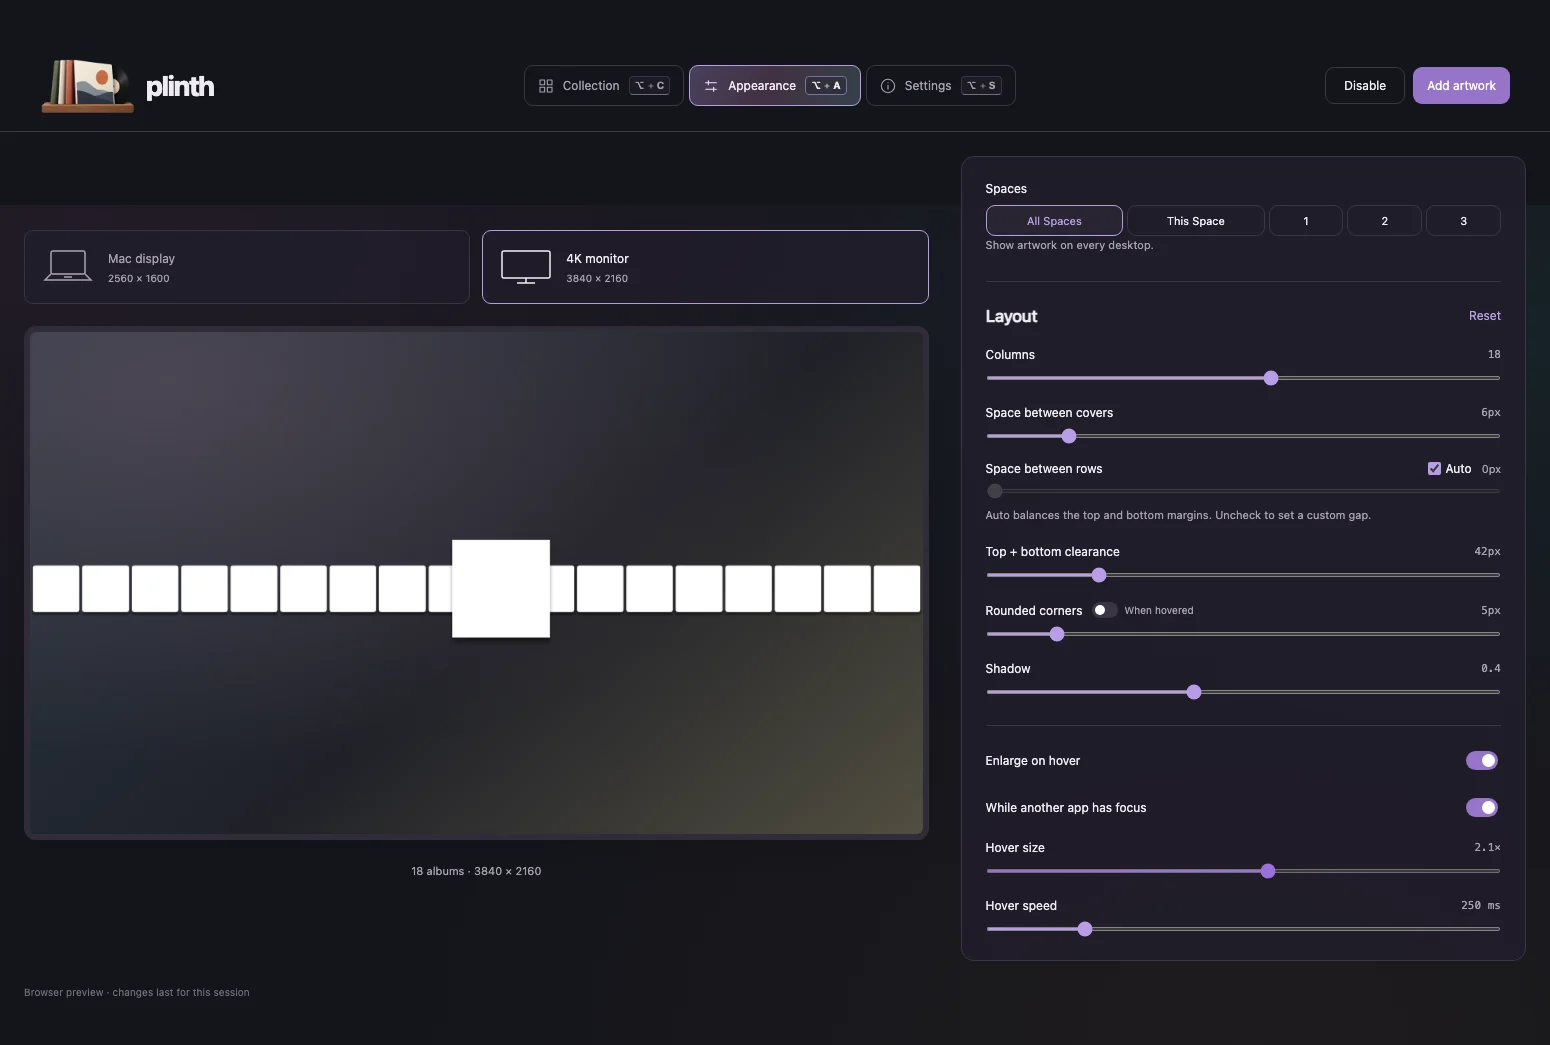
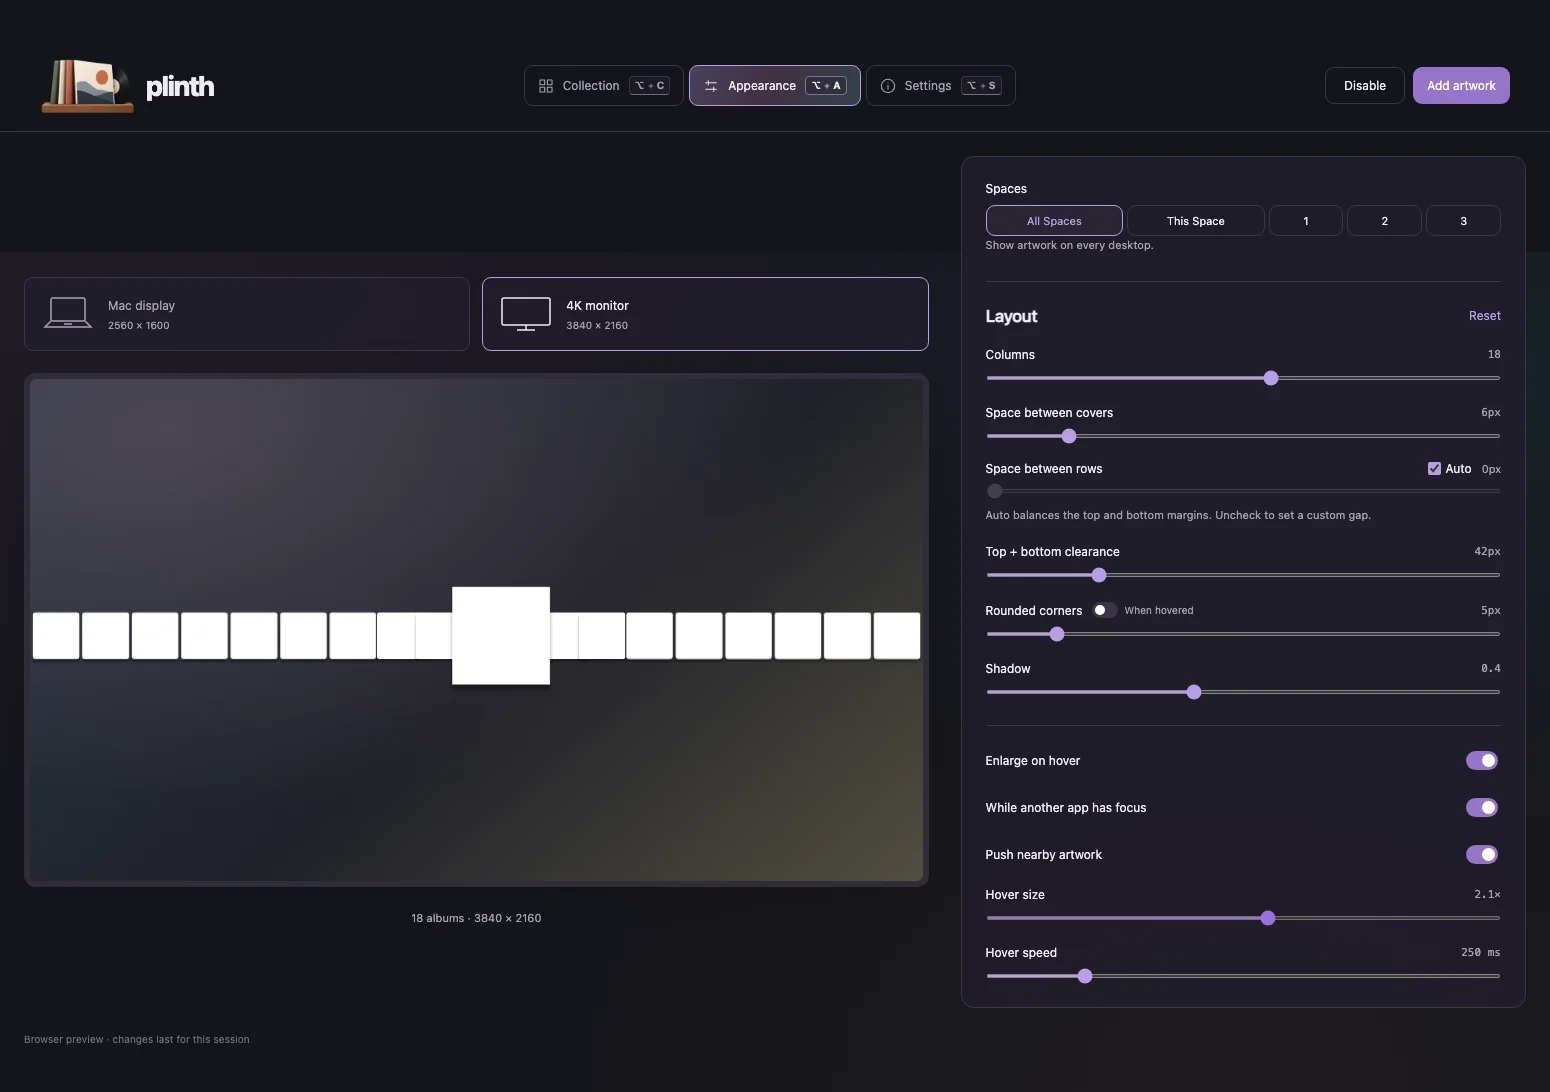
Push nearby artwork away from the hovered cover
Neighbors within 2.6 cover widths of the pointer slide away from the
hovered cover, fading smoothly with distance. Pointer moves only
recompute targets; one rAF loop writes compositor-only translate3d
transforms to the affected cells, promoting them with will-change while
moving and releasing them at rest. Easing follows the hover speed.

Adds a "Push nearby artwork" toggle (default on) under Enlarge on hover,
recorded in history. The desktop-pointer blank-desktop probe now uses
the empty bottom-right corner; the fully enlarged first cover covers
the top-left one.

diff --git a/src/App.svelte b/src/App.svelte
@@ -208,7 +208,7 @@
     {#each [{key:'columns',label:'Columns',min:3,max:30,step:1,unit:''},{key:'gap',label:'Space between covers',min:0,max:40,step:1,unit:'px'},{key:'top',label:layout.rowGap===null?'Top + bottom clearance':'Top clearance',min:0,max:200,step:1,unit:'px'},{key:'radius',label:'Rounded corners',min:0,max:40,step:1,unit:'px'},{key:'shadow',label:'Shadow',min:0,max:1,step:.05,unit:''}] as control}<div class="slider-field"><span><label for={`layout-${control.key}`}>{control.label}</label>{#if control.key==='radius'}<label class="hover-corners-toggle"><input class="switch" type="checkbox" checked={layout.roundedOnHover??false} onchange={(e)=>changeLayout('roundedOnHover',e.currentTarget.checked)}/>When hovered</label>{/if}<output>{layout[control.key as keyof Layout]}{control.unit}</output></span><input id={`layout-${control.key}`} type="range" aria-label={control.label} min={control.min} max={control.max} step={control.step} value={layout[control.key as keyof Layout]} oninput={(e)=>changeLayout(control.key as keyof Layout,Number(e.currentTarget.value))}/></div>{#if control.key==='gap'}
     <div class="row-spacing-field"><div><label for="row-spacing">Space between rows</label><label class="auto-row-spacing"><input type="checkbox" aria-label="Automatic row spacing" checked={layout.rowGap===null} onchange={(e)=>changeLayout('rowGap',e.currentTarget.checked?null:Math.round(rowSpacing.rowGap))}/>Auto</label><output for="row-spacing">{Math.round(rowSpacing.rowGap)}px</output></div><input id="row-spacing" aria-label="Space between rows" aria-describedby="row-spacing-note" disabled={layout.rowGap===null} type="range" min="0" max={Math.max(80,Math.ceil(desktopSpacing({...layout,rowGap:null},screen.width,screen.height,enabled.length,screen.menuBarHeight).rowGap),layout.rowGap??0)} step="1" value={rowSpacing.rowGap} oninput={(e)=>changeLayout('rowGap',Number(e.currentTarget.value))}/><p id="row-spacing-note" class="field-note">Auto balances the top and bottom margins. Uncheck to set a custom gap.</p></div>
     {/if}{/each}
-    <div class="control-divider"></div><label class="toggle-row"><span>Enlarge on hover</span><input class="switch" type="checkbox" bind:checked={settings.hoverEnabled} onchange={persist}/></label><label class="toggle-row"><span>While another app has focus</span><input class="switch" type="checkbox" disabled={!settings.hoverEnabled} bind:checked={settings.hoverInBackground} onchange={persist}/></label><label class="slider-field"><span>Hover size<output>{settings.hoverScale.toFixed(1)}×</output></span><input aria-label="Hover size" onpointerdown={startHoverPreview} type="range" min="1" max="3" step=".1" bind:value={settings.hoverScale} oninput={persist}/></label><label class="slider-field"><span>Hover speed<output>{Math.round(250/(settings.hoverSpeed??1))} ms</output></span><input aria-label="Hover speed" onpointerdown={startHoverPreview} type="range" min="83" max="1000" step="1" value={Math.round(250/(settings.hoverSpeed??1))} aria-valuetext={`${Math.round(250/(settings.hoverSpeed??1))} milliseconds`} oninput={(event)=>{settings.hoverSpeed=Math.min(3,250/Number(event.currentTarget.value));persist()}}/></label></section></div>
+    <div class="control-divider"></div><label class="toggle-row"><span>Enlarge on hover</span><input class="switch" type="checkbox" bind:checked={settings.hoverEnabled} onchange={persist}/></label><label class="toggle-row"><span>While another app has focus</span><input class="switch" type="checkbox" disabled={!settings.hoverEnabled} bind:checked={settings.hoverInBackground} onchange={persist}/></label><label class="toggle-row"><span>Push nearby artwork</span><input class="switch" type="checkbox" disabled={!settings.hoverEnabled} bind:checked={settings.pushNeighbors} onchange={persist}/></label><label class="slider-field"><span>Hover size<output>{settings.hoverScale.toFixed(1)}×</output></span><input aria-label="Hover size" onpointerdown={startHoverPreview} type="range" min="1" max="3" step=".1" bind:value={settings.hoverScale} oninput={persist}/></label><label class="slider-field"><span>Hover speed<output>{Math.round(250/(settings.hoverSpeed??1))} ms</output></span><input aria-label="Hover speed" onpointerdown={startHoverPreview} type="range" min="83" max="1000" step="1" value={Math.round(250/(settings.hoverSpeed??1))} aria-valuetext={`${Math.round(250/(settings.hoverSpeed??1))} milliseconds`} oninput={(event)=>{settings.hoverSpeed=Math.min(3,250/Number(event.currentTarget.value));persist()}}/></label></section></div>
    {:else if page==='history'}
     <div class="history-back"><button onclick={()=>page='settings'}><svg width="14" height="14" viewBox="0 0 24 24" fill="none" stroke="currentColor" stroke-width="1.8" aria-hidden="true"><path d="m14 6-6 6 6 6"/></svg>Back to Settings</button></div>
     <History {history} busy={historyBusy||busy} loading={historyLoading} undo={()=>void moveHistory('undo')} redo={()=>void moveHistory('redo')} restore={(id)=>void moveHistory('restore',id)}/>

diff --git a/src/lib/Desktop.svelte b/src/lib/Desktop.svelte
@@ -6,6 +6,7 @@
  import { getCurrentWebviewWindow } from '@tauri-apps/api/webviewWindow'
  import { coverUrl, native, openAlbum } from './api'
  import { swingScale } from './motion'
+ import { neighborPush, type Cell } from './push'
  import { ordered, type Layout, type Library } from './types'
  export let library: Library
  export let preview=false
@@ -28,15 +29,21 @@
  $: layout=forcedLayout??(displayProfile?settings[displayProfile]:width>1900?settings.wideLayout:settings.layout)
  $: albums=ordered(library.albums.filter(a=>a.enabled),settings.sort,settings.shuffleSeed)
  $: spacing=desktopSpacing(layout,viewportWidth??width,viewportHeight??height,albums.length,preview?menuBarHeight:detectedMenuBarHeight)
- let bounds:{id:string;rect:DOMRect}[]|undefined
+ let bounds:Cell[]|undefined
  function invalidateBounds(){bounds=undefined}
+ const push=neighborPush()
+ // Measure resting cells: remove any push offset (renderer pixels) in viewport scale.
+ function cells(){return bounds??=Array.from(grid?.querySelectorAll<HTMLElement>('.desktop-cell')??[],el=>{const r=el.getBoundingClientRect(),s=r.width/(el.offsetWidth||1),o=push.offset(el);return {id:el.dataset.id??'',el,rect:new DOMRect(r.left-o.x*s,r.top-o.y*s,r.width,r.height)}})}
+ let pointer:{x:number;y:number}|undefined
+ $: pushStrength=settings.pushNeighbors!==false?desktopCoverSize(layout,viewportWidth??width)*(settings.hoverScale-1)*.4:0
+ $: if(grid)push.update(cells,activeHover,activeHover===hovered?pointer:undefined,pushStrength,settings.hoverSpeed??1)
  // Rectangles use viewport coordinates, including the scaled preview and scrolling.
  $: { spacing; albums; width; height; viewportWidth; viewportHeight; previewScale; invalidateBounds() }
  onMount(()=>{
   const observer=new ResizeObserver(invalidateBounds)
   observer.observe(grid)
   window.addEventListener('scroll',invalidateBounds,true)
-  return()=>{observer.disconnect();window.removeEventListener('scroll',invalidateBounds,true)}
+  return()=>{observer.disconnect();window.removeEventListener('scroll',invalidateBounds,true);push.destroy()}
  })
  function hoverAt(x:number,y:number,visible:boolean) {
   if(native&&!preview&&visible) {
@@ -47,9 +54,8 @@
   }
   if(!visible || !settings.hoverEnabled) {hovered='';return}
   // Use the unscaled grid cells so enlarged artwork does not shift the hit target.
-  bounds??=Array.from(grid?.querySelectorAll<HTMLElement>('.desktop-cell')??[],el=>({id:el.dataset.id??'',rect:el.getBoundingClientRect()}))
-  hovered=''
-  for(const {id,rect:r} of bounds) {if(x>=r.left&&x<r.right&&y>=r.top&&y<r.bottom){hovered=id;break}}
+  hovered='';pointer={x,y}
+  for(const {id,rect:r} of cells()) {if(x>=r.left&&x<r.right&&y>=r.top&&y<r.bottom){hovered=id;break}}
  }
  export function startHoverPreview() {
   if(!preview||!grid)return

diff --git a/src/lib/push.ts b/src/lib/push.ts
@@ -1,0 +1,49 @@
+// Nudge covers near the hovered one away from it, less the farther they sit from the pointer.
+// Pointer moves only recompute targets; DOM writes happen once per frame, touch only covers
+// within reach, and use compositor-only transforms (promoted while moving, released at rest).
+export type Cell={id:string;el:HTMLElement;rect:DOMRect}
+type Offset={x:number;y:number;tx:number;ty:number}
+const reach=2.6 // Cover widths from the pointer at which the push fades out.
+export function neighborPush(){
+ const moving=new Map<HTMLElement,Offset>()
+ let frame=0,last=0,tau=70
+ function paint(el:HTMLElement,o:Offset){
+  if(o.x||o.y){el.style.transform=`translate3d(${o.x}px,${o.y}px,0)`;return}
+  moving.delete(el);el.style.transform='';el.style.willChange=''
+ }
+ function tick(now:number){
+  const k=tau?1-Math.exp(-Math.min(64,now-last)/tau):1
+  last=now;frame=0
+  for(const [el,o] of moving){
+   if(o.x===o.tx&&o.y===o.ty){if(!o.x&&!o.y)paint(el,o);continue}
+   o.x+=(o.tx-o.x)*k;o.y+=(o.ty-o.y)*k
+   if(Math.abs(o.tx-o.x)<.05&&Math.abs(o.ty-o.y)<.05){o.x=o.tx;o.y=o.ty}
+   paint(el,o)
+   if(o.x!==o.tx||o.y!==o.ty)frame||=requestAnimationFrame(tick)
+  }
+ }
+ // `strength` is the largest offset in the renderer's own pixels; rects are viewport pixels.
+ function update(measure:()=>Cell[],hovered:string,point:{x:number;y:number}|undefined,strength:number,speed:number){
+  tau=matchMedia('(prefers-reduced-motion: reduce)').matches?0:70/speed
+  for(const o of moving.values()){o.tx=0;o.ty=0}
+  const cells=hovered&&strength>0?measure():[],home=cells.find(c=>c.id===hovered)
+  if(home){
+   const r=home.rect,hx=r.left+r.width/2,hy=r.top+r.height/2,px=point?.x??hx,py=point?.y??hy,limit=r.width*reach
+   for(const c of cells){
+    if(c===home)continue
+    const x=c.rect.left+c.rect.width/2,y=c.rect.top+c.rect.height/2
+    if(Math.abs(x-px)>=limit||Math.abs(y-py)>=limit)continue
+    const f=1-Math.hypot(x-px,y-py)/limit
+    if(f<=0)continue
+    const dx=x-hx,dy=y-hy,m=strength*f*f*(3-2*f)/(Math.hypot(dx,dy)||1)
+    let o=moving.get(c.el)
+    if(!o){o={x:0,y:0,tx:0,ty:0};moving.set(c.el,o);c.el.style.willChange='transform'}
+    o.tx=dx*m;o.ty=dy*m
+   }
+  }
+  if(!frame&&moving.size){last=performance.now();frame=requestAnimationFrame(tick)}
+ }
+ function offset(el:HTMLElement){const o=moving.get(el);return o?{x:o.x,y:o.y}:{x:0,y:0}}
+ function destroy(){cancelAnimationFrame(frame);for(const [el,o] of moving){o.x=o.y=0;paint(el,o)}}
+ return {update,offset,destroy}
+}

diff --git a/src/lib/types.ts b/src/lib/types.ts
@@ -1,9 +1,9 @@
 import type { LogoId } from './logos'
 export interface Album { id: string; title: string; artist: string; date: string; url: string; cover: string; original: string; enabled: boolean }
 export interface Layout { columns: number; gap: number; rowGap: number|null; top: number; radius: number; roundedOnHover: boolean; shadow: number }
-export interface Settings { layout: Layout; wideLayout: Layout; hoverScale: number; hoverSpeed: number; hoverEnabled: boolean; hoverInBackground: boolean; sort: string; shuffleSeed: number; theme: string; logo: LogoId; desktopEnabled: boolean; allSpaces: boolean; targetSpace: number|null }
+export interface Settings { layout: Layout; wideLayout: Layout; hoverScale: number; hoverSpeed: number; hoverEnabled: boolean; hoverInBackground: boolean; pushNeighbors: boolean; sort: string; shuffleSeed: number; theme: string; logo: LogoId; desktopEnabled: boolean; allSpaces: boolean; targetSpace: number|null }
 export interface Library { albums: Album[]; settings: Settings }
 export const defaultLayout: Layout = { columns: 12, gap: 6, rowGap: null, top: 42, radius: 5, roundedOnHover: false, shadow: .4 }
-export const defaultSettings: Settings = { layout: {...defaultLayout}, wideLayout: {...defaultLayout, columns: 18}, hoverScale: 2.1, hoverSpeed: 1, hoverEnabled: true, hoverInBackground: true, sort: 'artist', shuffleSeed:0, theme: 'dark', logo: 'logo-1', desktopEnabled: true, allSpaces: true, targetSpace: null }
+export const defaultSettings: Settings = { layout: {...defaultLayout}, wideLayout: {...defaultLayout, columns: 18}, hoverScale: 2.1, hoverSpeed: 1, hoverEnabled: true, hoverInBackground: true, pushNeighbors: true, sort: 'artist', shuffleSeed:0, theme: 'dark', logo: 'logo-1', desktopEnabled: true, allSpaces: true, targetSpace: null }
 function shuffleRank(id:string,seed:number){let h=seed^2166136261;for(let i=0;i<id.length;i++){h=Math.imul(h^id.charCodeAt(i),16777619)}h=Math.imul(h^(h>>>16),2246822507);h=Math.imul(h^(h>>>13),3266489909);return (h^(h>>>16))>>>0}
 export function ordered(albums: Album[], sort: string, seed=0) { return [...albums].sort((a,b) => sort === 'shuffle' ? shuffleRank(a.id,seed)-shuffleRank(b.id,seed) : sort === 'date' ? b.date.localeCompare(a.date) : sort === 'oldest' ? a.date.localeCompare(b.date) : sort === 'title' ? a.title.localeCompare(b.title) : a.artist.localeCompare(b.artist) || a.date.localeCompare(b.date) || a.title.localeCompare(b.title)) }

diff --git a/tests/hover-size.spec.ts b/tests/hover-size.spec.ts
@@ -116,3 +116,26 @@ test('rounded corners on hover default off and restore independently for each di
  await page.getByRole('button',{name:'Settings',exact:true}).click();await page.getByRole('button',{name:'History',exact:true}).click()
  await expect(page.locator('.history-list')).toContainText('Rounded corners when hovered: Off → On')
 })
+
+test('hovering pushes nearby artwork away, less with distance, and the toggle restores through history',async({page})=>{
+ await page.goto('/?demo=1');await page.getByRole('button',{name:'Appearance',exact:true}).click()
+ await page.getByRole('button',{name:/Mac display/}).click();await page.getByRole('slider',{name:'Columns',exact:true}).fill('6')
+ const cells=page.locator('.preview-render .desktop-cell')
+ const offset=(i:number)=>cells.nth(i).evaluate(el=>{const m=new DOMMatrix(getComputedStyle(el).transform);return {x:m.m41,y:m.m42}})
+ await cells.nth(3).scrollIntoViewIfNeeded();await cells.nth(3).hover()
+ await expect.poll(async()=>(await offset(4)).x).toBeGreaterThan(5)
+ await page.waitForTimeout(400)
+ const [left,right,farther,below,far]=await Promise.all([2,4,5,9,17].map(offset))
+ expect(left.x).toBeLessThan(-5);expect(right.x).toBeGreaterThan(farther.x);expect(farther.x).toBeGreaterThan(0)
+ expect(below.y).toBeGreaterThan(5);expect(far).toEqual({x:0,y:0})
+ expect(await offset(3)).toEqual({x:0,y:0})
+ await page.mouse.move(0,0)
+ await expect.poll(()=>cells.nth(4).evaluate(el=>el.style.transform+el.style.willChange)).toBe('')
+ const toggle=page.getByRole('checkbox',{name:'Push nearby artwork',exact:true})
+ await expect(toggle).toBeChecked();await toggle.uncheck()
+ await cells.nth(3).hover();await page.waitForTimeout(400)
+ expect(await offset(4)).toEqual({x:0,y:0})
+ await page.getByRole('checkbox',{name:'Enlarge on hover',exact:true}).uncheck();await expect(toggle).toBeDisabled()
+ await page.getByRole('button',{name:'Settings',exact:true}).click();await page.getByRole('button',{name:'History',exact:true}).click()
+ await expect(page.locator('.history-list')).toContainText('Push nearby artwork: On → Off')
+})

diff --git a/src/lib/history.ts b/src/lib/history.ts
@@ -24,7 +24,7 @@ function describe(before:Library,after:Library) {
  const settings:string[]=[]
  const space=(settings:Library['settings'])=>settings.targetSpace?`Space ${settings.targetSpace}`:settings.allSpaces?'All Spaces':'This Space'
  if(space(before.settings)!==space(after.settings))settings.push(`Spaces: ${space(before.settings)} → ${space(after.settings)}`)
- for(const [key,label] of [['theme','App appearance'],['logo','App logo'],['desktopEnabled','Show desktop'],['sort','Sort order'],['shuffleSeed','Shuffle order'],['hoverScale','Hover size'],['hoverSpeed','Hover speed'],['hoverEnabled','Enlarge on hover'],['hoverInBackground','While another app has focus']] as const){
+ for(const [key,label] of [['theme','App appearance'],['logo','App logo'],['desktopEnabled','Show desktop'],['sort','Sort order'],['shuffleSeed','Shuffle order'],['hoverScale','Hover size'],['hoverSpeed','Hover speed'],['hoverEnabled','Enlarge on hover'],['hoverInBackground','While another app has focus'],['pushNeighbors','Push nearby artwork']] as const){
   const format=key==='hoverSpeed'?(value:unknown)=>`${Math.round(250/Number(value??1))} ms`:display
   if(before.settings[key]!==after.settings[key])settings.push(`${label}: ${format(before.settings[key])} → ${format(after.settings[key])}`)
  }

diff --git a/tests/desktop-pointer.spec.ts b/tests/desktop-pointer.spec.ts
@@ -65,9 +65,11 @@ for (const builtIn of [false, true]) for(const hoverInBackground of [false,true]
   await emit('desktop-test', true, true)
   await expect(page.locator('.enlarged')).toHaveCount(hoverEnabled?1:0)
   // Blank desktop must release the native hand even with enlargement disabled.
-  pointer.x=1;pointer.y=1
+  // Use the empty bottom-right corner; the enlarged first cover can reach the top-left one.
+  const viewport=page.viewportSize()!
+  pointer.x=viewport.width-2;pointer.y=viewport.height-2
   await emit('desktop-test', true)
-  await expect.poll(() => page.evaluate(() => (window as any).cursors.at(-1))).toEqual({x:1,y:1,pointing:false})
+  await expect.poll(() => page.evaluate(() => (window as any).cursors.at(-1))).toEqual({x:pointer.x,y:pointer.y,pointing:false})
   const cursorCount=await page.evaluate(() => (window as any).cursors.length)
   await emit('desktop-test', false)
   await expect(page.locator('.enlarged')).toHaveCount(0)

diff --git a/src-tauri/src/library.rs b/src-tauri/src/library.rs
@@ -51,6 +51,7 @@ pub struct Settings {
     pub hover_speed: f64,
     pub hover_enabled: bool,
     pub hover_in_background: bool,
+    pub push_neighbors: bool,
     pub sort: String,
     pub shuffle_seed: u32,
     pub theme: String,
@@ -71,6 +72,7 @@ impl Default for Settings {
             hover_speed: 1.,
             hover_enabled: true,
             hover_in_background: true,
+            push_neighbors: true,
             sort: "artist".into(),
             shuffle_seed: 0,
             theme: "dark".into(),
@@ -315,10 +317,13 @@ mod tests {
         let mut settings: Settings = serde_json::from_str("{}").unwrap();
         assert_eq!(settings.hover_speed, 1.);
         assert!(settings.hover_in_background);
+        assert!(settings.push_neighbors);
         settings.hover_in_background = false;
+        settings.push_neighbors = false;
         let reloaded: Settings =
             serde_json::from_str(&serde_json::to_string(&settings).unwrap()).unwrap();
         assert!(!reloaded.hover_in_background);
+        assert!(!reloaded.push_neighbors);
         for speed in [0.25, 1., 3.] {
             settings.hover_speed = speed;
             assert!(validate_settings(&settings).is_ok());

diff --git a/src-tauri/src/history.rs b/src-tauri/src/history.rs
@@ -169,6 +169,7 @@ fn settings_details(before: &Settings, after: &Settings) -> Vec<String> {
         ("hoverSpeed", "Hover speed"),
         ("hoverEnabled", "Enlarge on hover"),
         ("hoverInBackground", "While another app has focus"),
+        ("pushNeighbors", "Push nearby artwork"),
     ];
     for (key, name) in names {
         if before[key] != after[key] {
